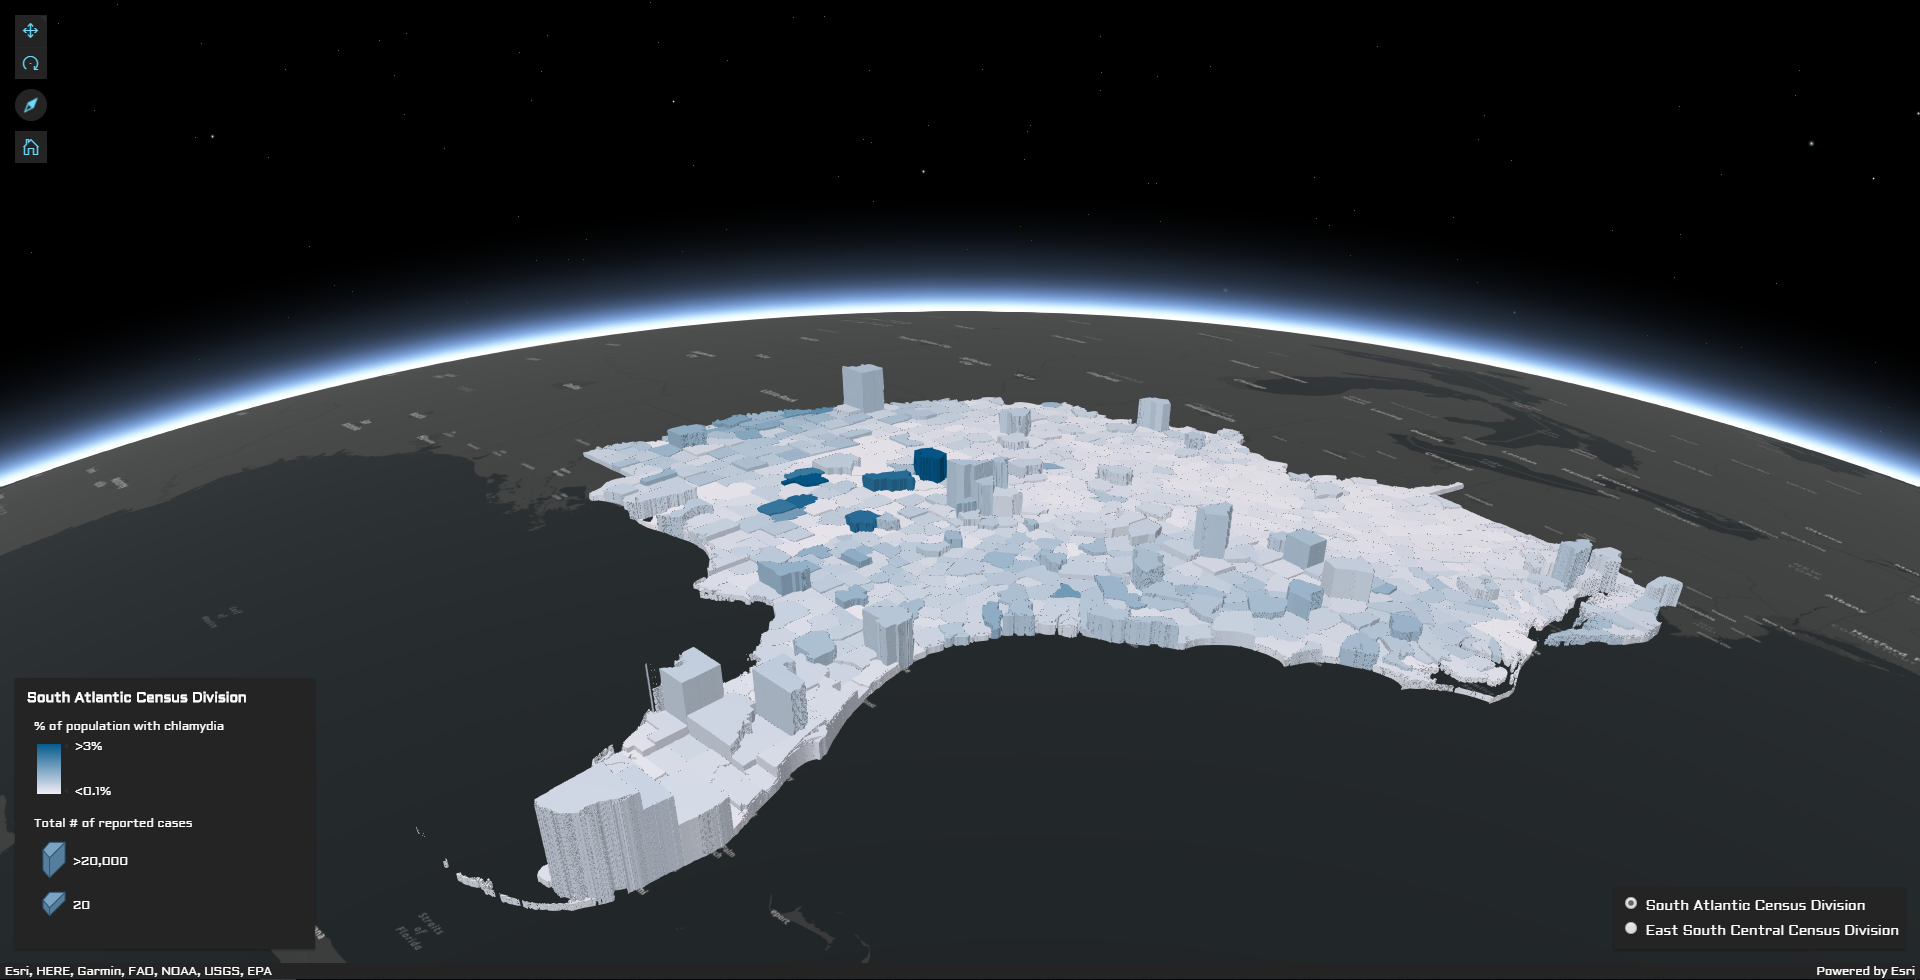
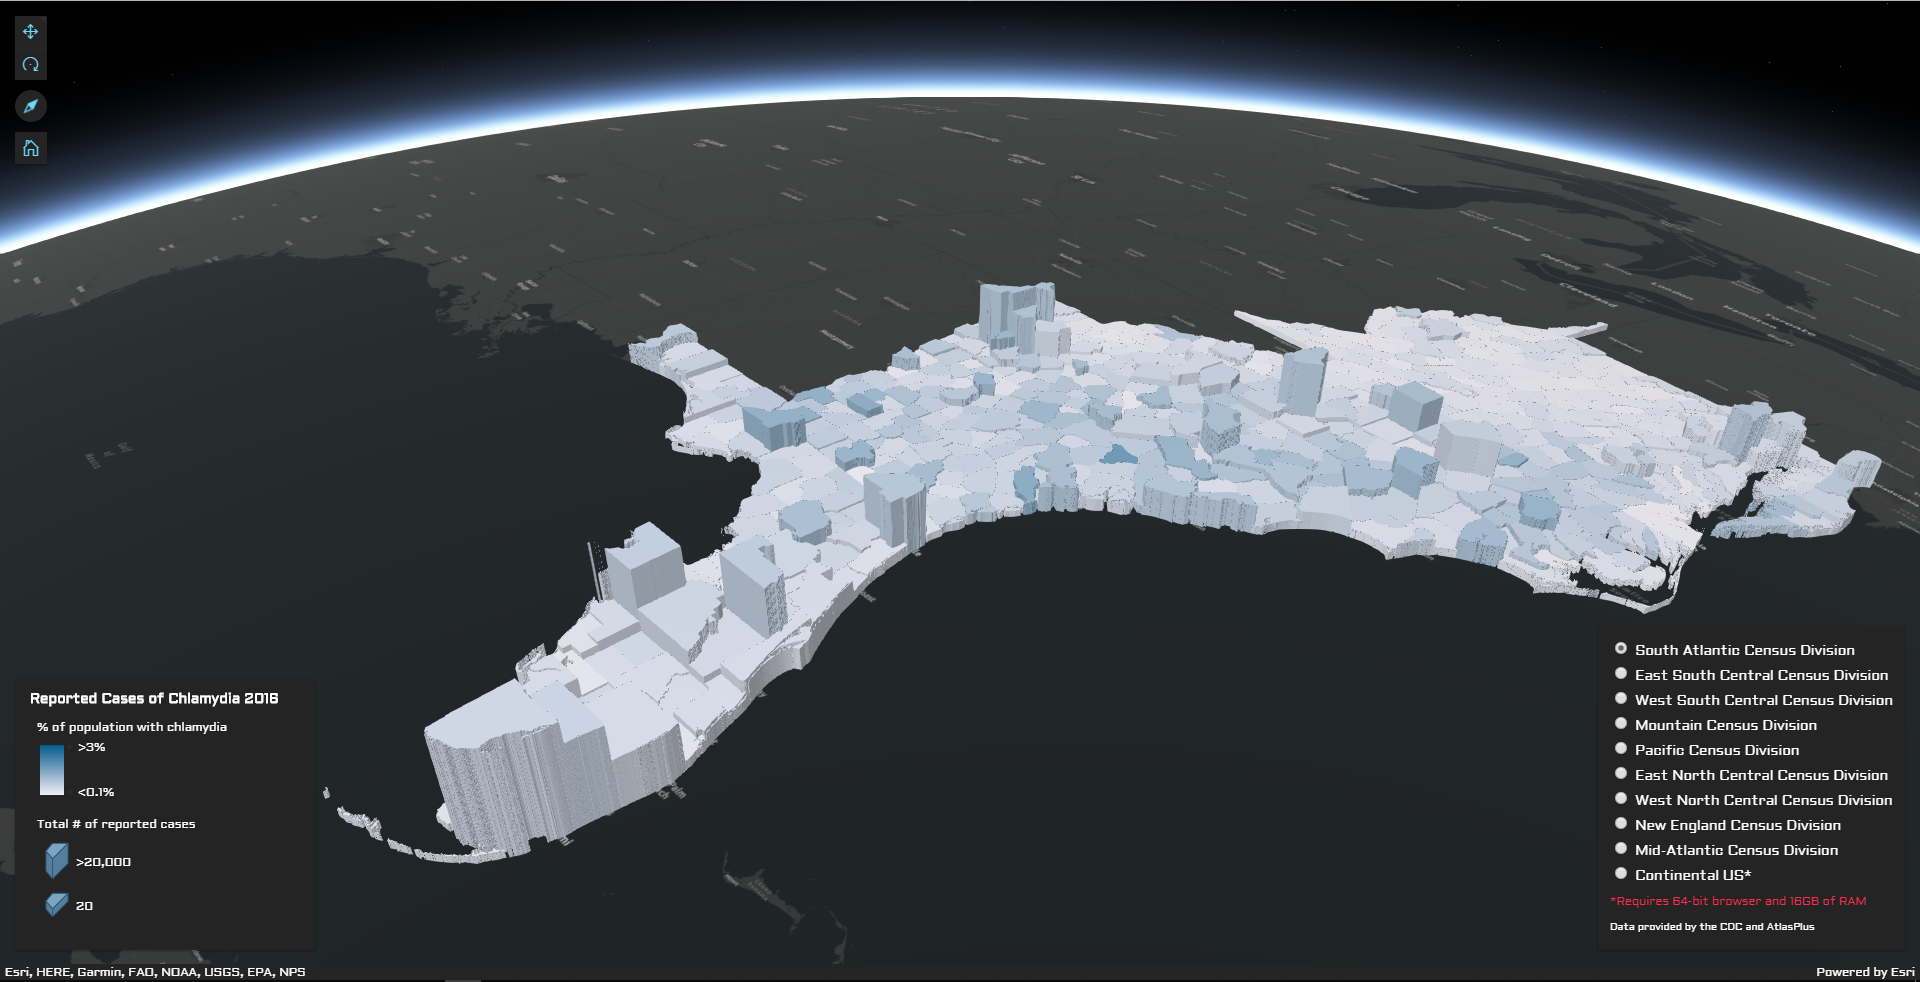
0.2 Style changes
Changed some styles, fixed navigation bar to be more central on the page, added link to denver bridge map, updated images on map page to be closer to actual map.

diff --git a/maps.html b/maps.html
@@ -16,8 +16,10 @@
     <body>
         
         <div class="container">
-            <div class="mainNav">
-                <div class="logo">
+            <div id="header" class="mainNav">
+                <div id="compname" class="logo">
+                    <li><em>Coordinating<br>Technologies</em></li>
+                </div>
                 <div class="links">
                     <ul>
                         <li>
@@ -46,8 +48,8 @@
                         </li>                        
                     </ul>
                 </div>
-                </div>
             </div>
+        </div>
             
             <div class="column">
                 
@@ -57,7 +59,7 @@
                     <img src="rmc.png", class="pic"></a>
                 <h2>Rocky Mountain Conservancy</h2>                
                 <h3>Park Restoration Projects</h3>
-                <p>This map shows the locations of the conservation work done by The Rocky Mountain Conservancy across the Rocky Mountains.<br><br>Click on the pins to see a brief description of the work that has been completed. The images are placeholder, but will be updated to show before and after conditions at a later date. Use the home button to reset the view to the default setting. Use the button below the home button in the upper right to change the basemap.</p>
+                <p>This map shows the locations of the conservation work done by The Rocky Mountain Conservancy across the Rocky Mountains.<br><br>Click on the pins to see a brief description of the work completed. The images are placeholder, but will be updated to show before and after conditions at a later date. Use the home button to reset the view to the default setting. Use the button below the home button in the upper right to change the basemap.</p>
                 <h4>Data provided by The Rocky Mountain Conservancy, February 2018</h4></div>
             
             <div class="column">
@@ -65,22 +67,18 @@
                     <img src="Southern%20States.PNG", class="pic"></a>
                 <!--<iframe src="https://tdocal.github.io/RMC_Project/" class="frame"></iframe>-->
                 <h2>Reported Cases of Chlamydia in 2016</h2>
-                <!--<h2>Median Home Value vs. Median Household Income</h2>-->
-                <p>This map shows the number of cases of chlamydia reported in 2016, according to the CDC. Choose the census division from the list on the bottom left to see the breakdown of reported cases in each region of the country.<br><br>The height of each county represents the number of cases reported, while the color depth represents the percentage of each county's population that was diagnosed with chlamydia.<br><br>It is possible to load every region at the same time, however, it requires 16GB of RAM and I don't think it's a reasonable assumption that everyone has that much. So, I've broken the map down into pieces that can be selected one at a time. In the future I will add similar maps of other STDs as reported by the CDC as well as a timeline that shows the increase in reported cases over time. However, that is not something I will be able to accomplish by the end of the semester.</p>
+                <p>This map shows the number of cases of chlamydia reported in 2016, according to the CDC. Choose the census division from the list on the bottom left to see the breakdown of reported cases in each region of the country.<br><br>The height of each county represents the number of cases reported, while the color depth represents the percentage of each county's population diagnosed with chlamydia.<br><br>Click on any county for more detailed information, or choose a new region from the radio buttons in the lower right. It may be a bit slow to load so please be patient.</p>
                 <h4>Data provided by the CDC and AtlasPlus, September 2018.</h4>
-                <!--<p>This map shows the median home value in each of the lower 48 states and the median income in each state.<br><br>The height of the state shows the median home value, while the color depth shows the disparity of income to home value. The darker the color the greater the disparity between home value and household income.</p>
-                <h4>Data provided by Zillow and the US Census Buereau, September 2018.</h4>-->
             </div>
             
             <div class="column">
-            <a href="https://tdocal.github.io/RMC_Project/">
-                    <img src="rmc.png", class="pic"></a>
+                <a href="https://tdocal.github.io/Denver-Bridge-Integrity/">
+                    <img src="Bridge%20Integrity.PNG", class="pic"></a>
+                <!--<iframe src="https://tdocal.github.io/RMC_Project/" class="frame"></iframe>-->
                 <h2>Denver Bridge Integrity</h2>
-                <p>This map shows the structural integrity of each bridge in Denver as rated by the FHWA.<br><br>Bridges are determined to be Structurally Deficient if the Deck, Substructure, Superstructure, or Culvert receive a rating of 4 or below or if the bridge receives an appraisal rating of 2 or below.<br><br>This map hasn't been started yet and may change in the future, right now it links to one of the other maps already created.</p>
+                <p>This map shows the structural integrity of each bridge in Denver as rated by the FHWA.<br><br>Bridges are determined to be Structurally Deficient if the Deck, Substructure, Superstructure, or Culvert receive a rating of 4 or below or if the bridge receives an appraisal rating of 2 or below.<br><br>This map is still a work in progress, but the functionality is mostly working.</p>
                 <h4>Data provided by the FHWA and USGS, September 2018.</h4>
             </div>
-            
-        </div>
         
         <script>            
             

diff --git a/css/style.css b/css/style.css
@@ -1,87 +1,108 @@
-body {
-		background-color:lightgray;
-	}
-	
-.container {
-		width: 100%;
-		height: 100%;
-	}
-	
+body, container {
+    background-color:lightgray;
+}
+
+#header {
+    
+}
+
 .column {
-		float: left;
-		width: 33.33%;
-		height: 338px;
-	}
+    float: left;
+    width: 33.33%;
+    height: 338px;
+}
 	
 .ribbonNav {
-		color: lightgray;
-		text-decoration: none;
-	}
+    color: lightgray;
+    text-decoration: none;
+}
 	
 .frame {
-		height: 338px;
-		width: 600px;
-		border: none;
-		margin-top: 100px;
-		align-content: center;
-		margin-left: 15px;
-	}
+    height: 338px;
+    width: 600px;
+    border: none;
+    margin-top: 80px;
+    align-content: center;
+    margin-left: 15px;
+}
 
 h2 {
-		color: darkslategrey;
-		font-family: "Aldrich";
-		font-size: 24px;
-		text-align: center;
-	}
+    color: darkslategrey;
+    font-family: "Aldrich";
+    font-size: 24px;
+    text-align: center;
+}
 	
 h3 {
-		color: darkslategrey;
-		font-family: "Aldrich";
-		font-size: 18x;
-		text-align: center;
-		margin-top: -20px;
-	}
+    color: darkslategrey;
+    font-family: "Aldrich";
+    font-size: 18x;
+    text-align: center;
+    margin-top: -20px;
+}
 	
 h4 {
-		color: darkslategrey;
-		font-family: "Aldrich";
-		font-size: 12px;
-		text-align: center; 
-	}
-	
+    color: darkslategrey;
+    font-family: "Aldrich";
+    font-size: 12px;
+    text-align: center;
+}
+
+#home, .about p{
+    text-align: center;
+    font-size: 16px;
+    width: 60%;
+}
+
 p {
-		color: darkslategrey;
-		font-family: "Open Sans", serif;
-		font-size: 16px;
-		margin: 0 auto;
-		max-width: 80%;
-	}
+    color: darkslategrey;
+    font-family: "Open Sans", serif;
+    font-size: 16px;
+    margin: 0 auto;
+    max-width: 80%;
+}
 	
 .mainNav {
-		background: darkslategrey;
-		overflow: auto;
-		position: relative;
-		color: lightgray;
-		font-family: "Aldrich";
-		font-size: 18px;
-		text-align: center; 
-	}
+    background: darkslategrey;
+    overflow: auto;
+    color: lightgray;
+    font-family: "Aldrich";
+    font-size: 18px;
+    display: table;
+    width: 100%;
+}
+
+#header #compname {
+    text-align: center;
+    float: left;
+    display: table-cell;
+    margin-top: 10px;
+    padding-left: 20px;
+}
+
 .mainpic {
     margin-top: 50px;
 }
-	
+
+.links {
+    text-align: center;
+    display: table-cell;
+    vertical-align: middle;
+    width: 66%;
+}
+
 li {
-		display: inline-block;
-		float: none;
-		width: auto;
-		padding-right: 40px;
-		padding-left: 40px;
-	}
+    display: table-cell;
+    float: auto;
+    text-align: center;
+    padding-left: 10px;
+    padding-right: 20px;
+}
 
 .pic {
-		height: 338px;
-		width: 600px;                
-		margin-top: 100px;
-		align-content: right;
-		padding-left: 15px;
-	}
+    height: 338px;
+    width: 600px;                
+    margin-top: 50px;
+    align-content: right;
+    padding-left: 15px;
+}

diff --git a/index.html b/index.html
@@ -14,12 +14,13 @@
     </head>
 
     <body>
-        
         <div class="container">
-            <div class="mainNav">
-                <div class="logo">
+            <div id="header" class="mainNav">
+                <div id="compname" class="logo">
+                    <li><em>Coordinating<br>Technologies</em></li>
+                </div>
                 <div class="links">
-                    <ul>
+                    <ul>                        
                         <li>
                             <a href='index.html' data-locationpage="navigation" data-pathtype="internal" class="ribbonNav">
                                 <span class="link-text">Home</span>
@@ -46,19 +47,15 @@
                         </li>                        
                     </ul>
                 </div>
-                </div>
             </div>
             
-            <div class="column"><img src="HighlineTrail.jpg", class="mainpic", width=300%></div>
             
+            <div class="home"><img src="HighlineTrail.jpg", class="mainpic", width=100%>
+                <div class="about">
+                    <p><em>Coordinating Technologies is a GIS firm dedicated to providing accurate, accecssible, and informative spatial visualization of data. Using industry standard tools and techniques we develop online and offline representations of data to meet your business needs.</em></p>
+                </div>
+            </div>
         </div>
-                    
-            
-        
-        <script>
-        
-        </script>
-    
     </body>
     
 </html>

diff --git a/feedback.html b/feedback.html
@@ -16,8 +16,10 @@
     <body>
         
         <div class="container">
-            <div class="mainNav">
-                <div class="logo">
+            <div id="header" class="mainNav">
+                <div id="compname" class="logo">
+                    <li><em>Coordinating<br>Technologies</em></li>
+                </div>
                 <div class="links">
                     <ul>
                         <li>
@@ -48,7 +50,7 @@
                 </div>
                 </div>
             </div>
-        </div>
+
         
         <p><br>You're map is bad and you should feel bad!<br>-Dr. Zoidberg</p>
         

diff --git a/resources.html b/resources.html
@@ -16,8 +16,10 @@
     <body>
         
         <div class="container">
-            <div class="mainNav">
-                <div class="logo">
+            <div id="header" class="mainNav">
+                <div id="compname" class="logo">
+                    <li><em>Coordinating<br>Technologies</em></li>
+                </div>
                 <div class="links">
                     <ul>
                         <li>
@@ -47,8 +49,7 @@
                 </div>
                 </div>
             </div>            
-        </div>
-        
+
         <script>
         
         </script>

diff --git a/contact.html b/contact.html
@@ -16,8 +16,10 @@
     <body>
         
         <div class="container">
-            <div class="mainNav">
-                <div class="logo">
+            <div id="header" class="mainNav">
+                <div id="compname" class="logo">
+                    <li><em>Coordinating<br>Technologies</em></li>
+                </div>
                 <div class="links">
                     <ul>
                         <li>
@@ -48,7 +50,6 @@
                 </div>
                 </div>
             </div>            
-        </div>
         
         <script>
             
